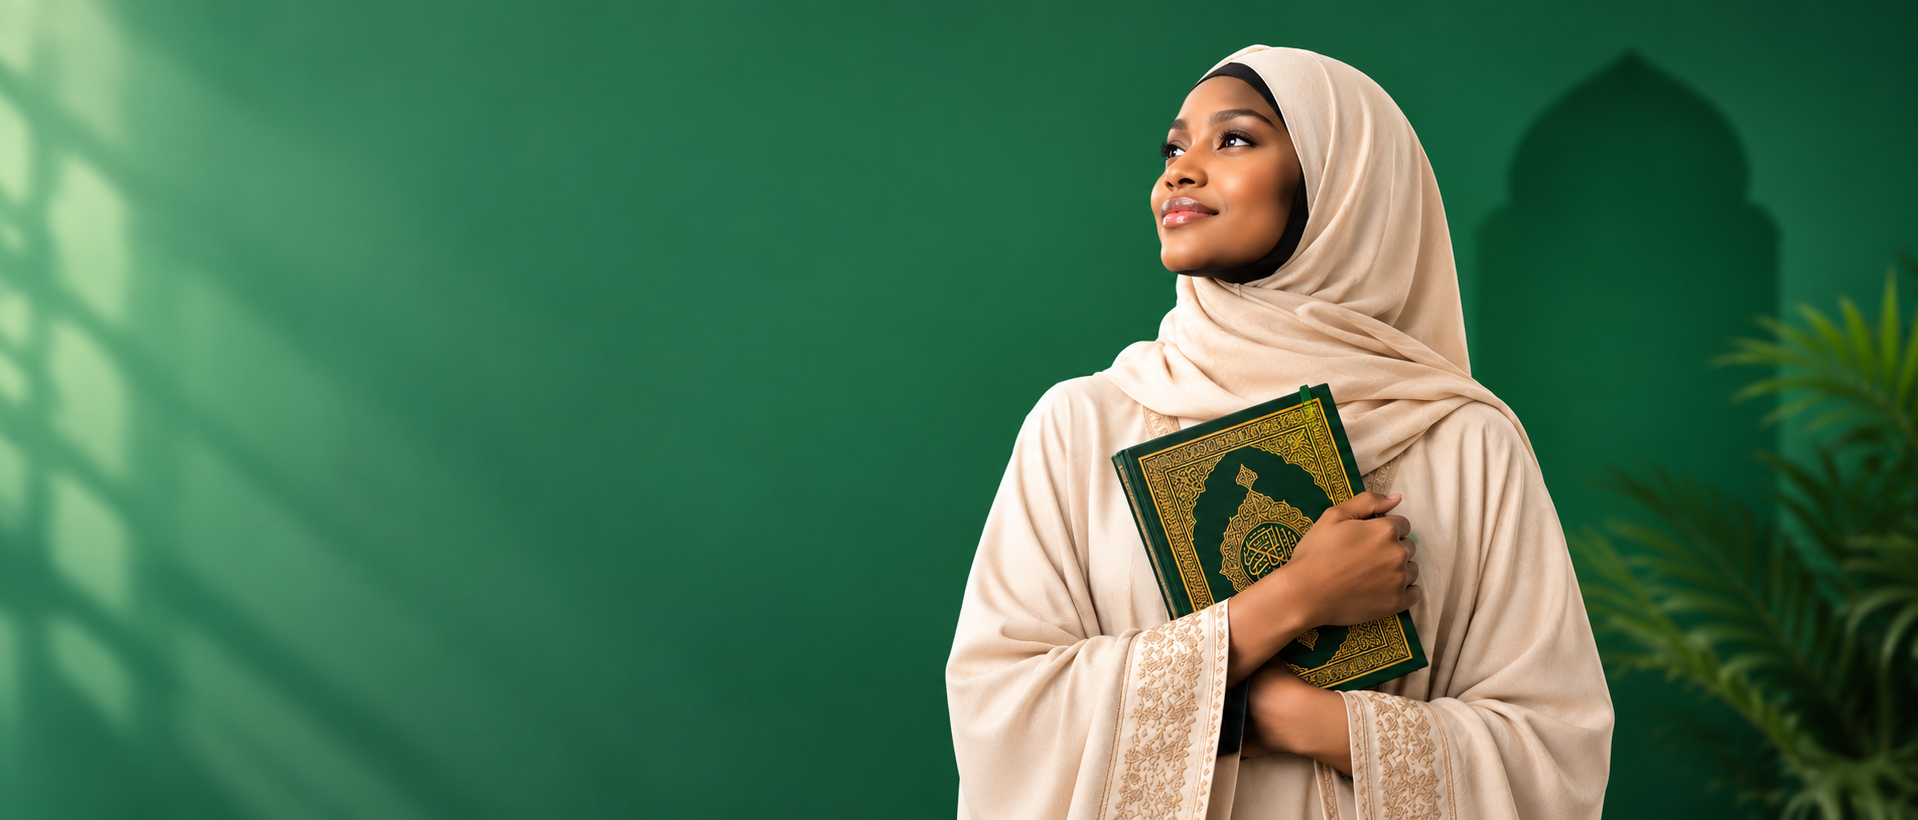
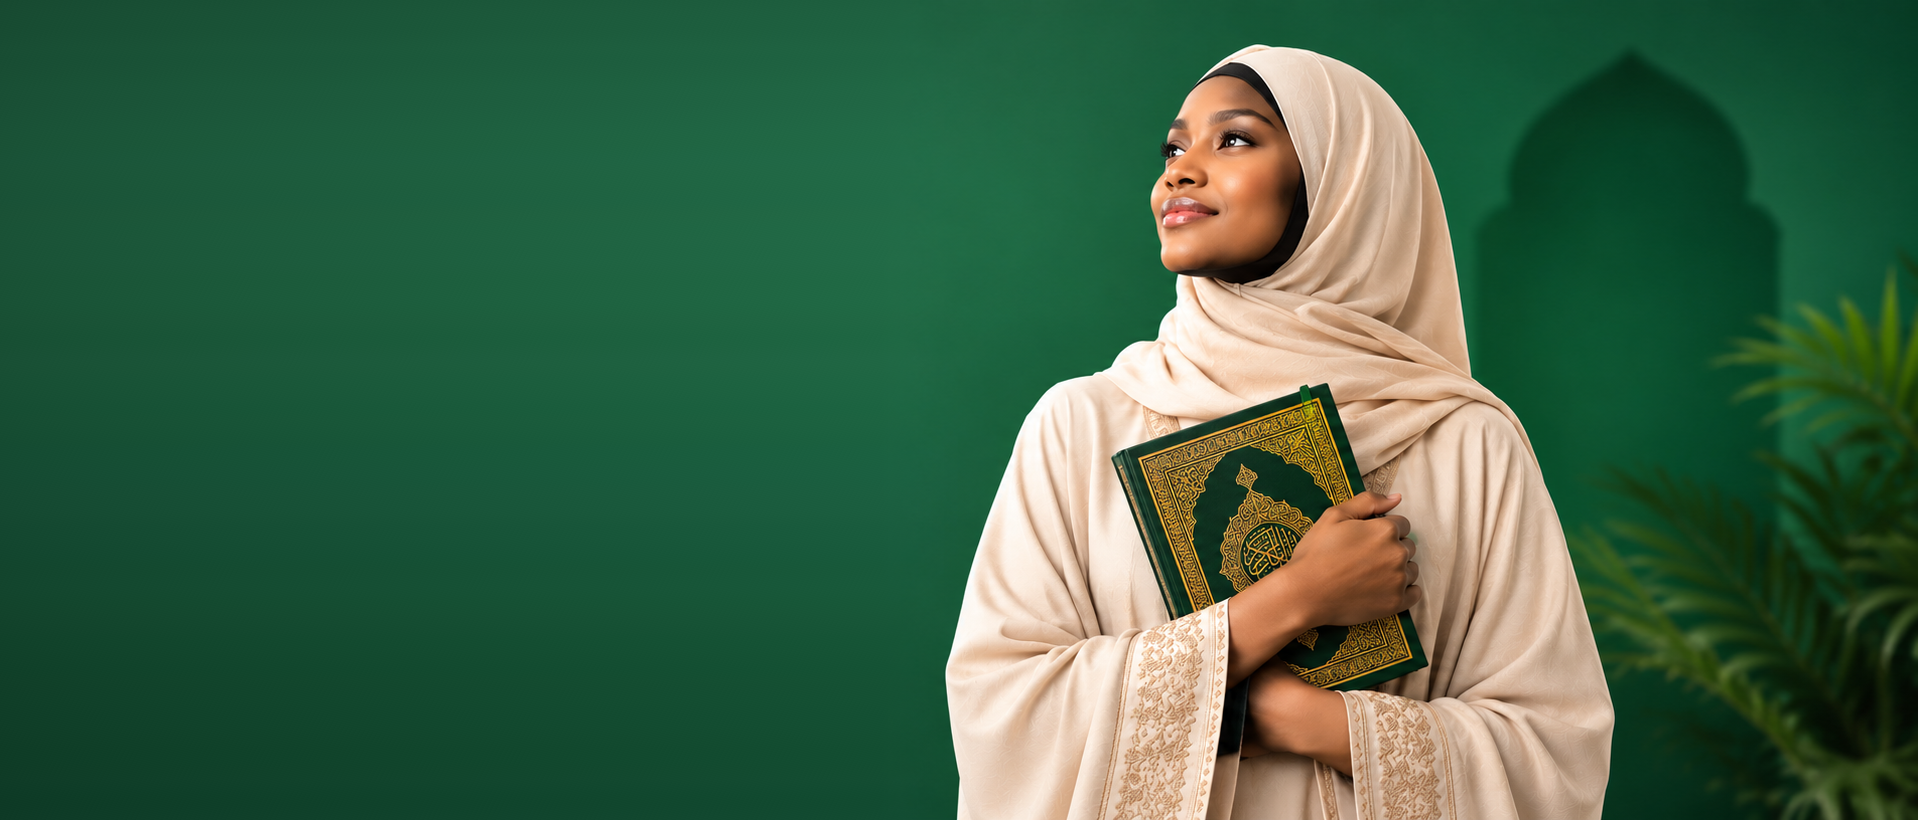
refactor: optimize hero background cross-fade animation
Refactor hero background transitions to use CSS transitions on the opacity property for smoother cross-fading, and update the user-uploaded background image asset.

Changed region(s): [[0.0, 0.0, 0.3076, 1.0]]

diff --git a/src/App.tsx b/src/App.tsx
@@ -484,7 +484,7 @@ export default function App() {
                 isDarkMode ? 'bg-[#034223]' : 'bg-[#FEFEFE]'
               }`}
             >
-              {/* Full-bleed background covering 100% of the Hero section with seamless 2.4s natural cross-dissolve */}
+              {/* Full-bleed background covering 100% of the Hero section with seamless natural cross-dissolve */}
               <div className="absolute inset-0 z-0 pointer-events-none overflow-hidden">
                 {ALL_HERO_BACKGROUNDS.map((bgItem) => {
                   const isCurrent = bgItem.id === currentHeroBg.id;
@@ -496,12 +496,15 @@ export default function App() {
                       alt="Arrière-plan Sanctuaire Islamique"
                       loading="eager"
                       decoding="async"
-                      className={`absolute inset-0 w-full h-full object-cover object-center will-change-[opacity,transform] transition-[opacity,transform] ease-in-out ${
+                      style={{
+                        transition: isCurrent ? 'opacity 1800ms ease-in-out' : 'none',
+                      }}
+                      className={`absolute inset-0 w-full h-full object-cover object-center ${
                         isCurrent
-                          ? 'z-20 opacity-100 scale-100 duration-[2200ms] delay-0'
+                          ? 'z-20 opacity-100'
                           : isPrev
-                            ? 'z-10 opacity-0 scale-100 duration-[800ms] delay-[1600ms]'
-                            : 'z-0 opacity-0 scale-[1.015] duration-300 delay-0'
+                            ? 'z-10 opacity-100'
+                            : 'z-0 opacity-0'
                       }`}
                     />
                   );
